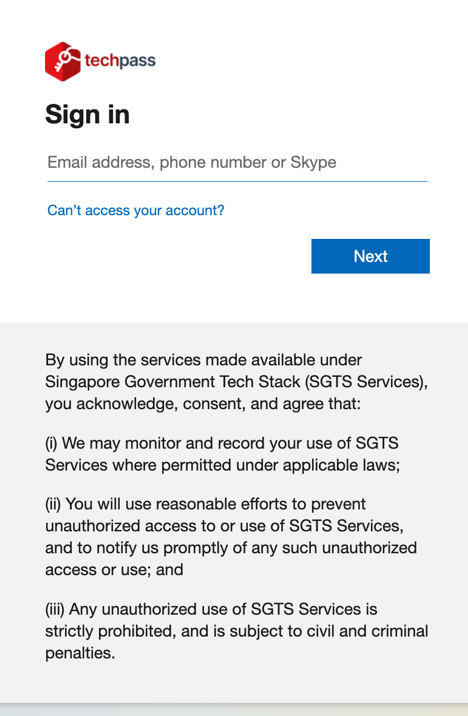
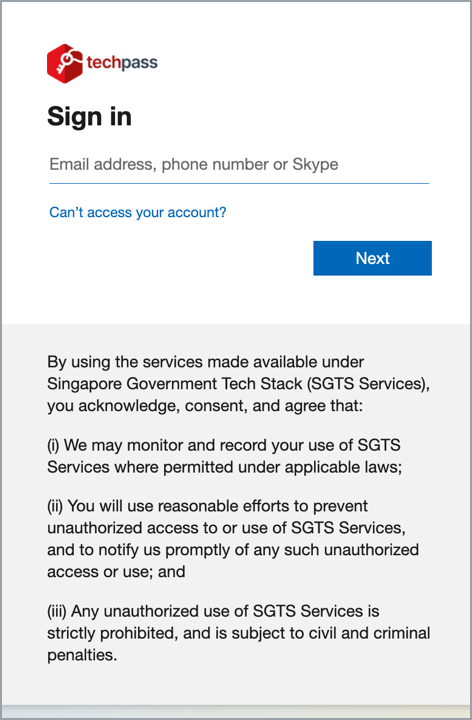
removed  next steps from the page and moved it to LHS, updated image border.
removed  next steps from the page and moved it to LHS, updated image border.

diff --git a/onboard-device/macos-vendor-onboarding.md b/onboard-device/macos-vendor-onboarding.md
@@ -12,7 +12,7 @@
 
 ## Set up Microsoft Intune
 
-<details>
+<details open>
   <summary style="font-size:18px">Set up Microsoft Intune to get the required applications and device configurations.</summary><br>
 
   1. Go to [Microsoft Intune documentation](https://learn.microsoft.com/en-us/mem/intune/user-help/enroll-your-device-in-intune-macos-cp) and follow the instructions on this page to complete the following:
@@ -28,12 +28,12 @@
 
 </details>
 
-### Next steps
-
-- [Post onboarding steps](post-onboarding-instructions/post-onboarding-steps-and-verification).
 
 
-<!--<ifigure>
+
+<!--
+
+<ifigure>
 <iframe title="YouTubeVideoPlayer" src="https://www.youtube.com/embed/P9R5RiMpaVU?showinfo=0" height="640" width="960" frameborder="0" allow="accelerometer; autoplay; encrypted-media; gyroscope; picture-in-picture" allowfullscreen></iframe>
 </ifigure>
 

diff --git a/onboard-device/windows.md b/onboard-device/windows.md
@@ -89,7 +89,7 @@ Write-Output $intune_id
 
 8. Choose the appropriate step:
 
-   a. If you have received a successfully onboarded email, skip rest of the steps in this section.
+   a. If you have received a successfully onboarded email, skip the following the steps.
 
     b. If you have **not yet received** the **successfully onboarded email** or if you **have received** a **failed onboarding email**, complete the following step on [TechPass portal](https://portal.techpass.gov.sg/).
 
@@ -109,10 +109,6 @@ Write-Output $intune_id
 
 
 </details>
-
-### Next steps
-
-- [Post onboarding steps](post-onboarding-instructions/post-onboarding-steps-and-verification).
 
 <!--
 

diff --git a/onboard-device/windows-vendor-onboarding.md b/onboard-device/windows-vendor-onboarding.md
@@ -8,7 +8,7 @@
 
 ## Set up Microsoft Intune
 
-<details>
+<details open>
   <summary style="font-size:18px">Set up Microsoft Intune to get the required applications and device configurations.</summary><br>
 
 1. Click **Start** icon on the taskbar.
@@ -31,9 +31,6 @@ Your account is added and listed as a connection. This account has **Info** and 
 
 </details>
 
-### Next steps
-
-- [Post onboarding steps](post-onboarding-instructions/post-onboarding-steps-and-verification).
 
 <!--
 ## Step 2: Verify installation

diff --git a/onboard-device/_sidebar.md b/onboard-device/_sidebar.md
@@ -8,7 +8,7 @@
 - [Onboard Windows device](onboard-device/windows-vendor-onboarding)
 - **Additional resources**
   - [Onboarding FAQs](faqs/common-onboarding-issues.md)
-  - [Post onboarding steps](post-onboarding-instructions/post-onboarding-steps-and-verification).
+  - [Post onboarding steps](post-onboarding-instructions/post-onboarding-steps-and-verification)
   - [Back to main](/)
 
 

diff --git a/onboard-device/mac-os.md b/onboard-device/mac-os.md
@@ -119,9 +119,7 @@ echo "$actual_id"
 
 </details>
 
-### Next steps
 
-- [Post onboarding steps](post-onboarding-instructions/post-onboarding-steps-and-verification).
 
  
 <!--
